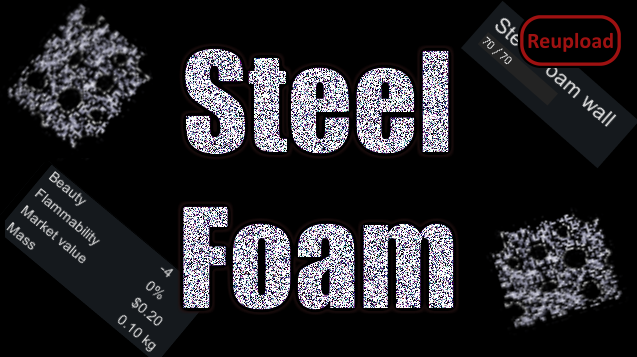
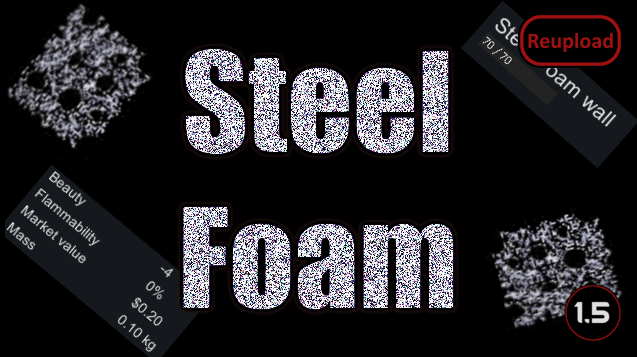
Mod updated for 1.5 and passed autotests

Changed region(s): [[0.865, 0.8011, 0.9843, 0.9552]]

diff --git a/README.md b/README.md
@@ -34,11 +34,13 @@ Mod Version: 0.0.1 Balance suggestions welcomed.
 
 -  See if the the error persists if you just have this mod and its requirements active.
 -  If not, try adding your other mods until it happens again.
--  Post your error-log using https://steamcommunity.com/workshop/filedetails/?id=818773962]HugsLib and command Ctrl+F12
+-  Post your error-log using https://steamcommunity.com/workshop/filedetails/?id=818773962]HugsLib or the standalone https://steamcommunity.com/sharedfiles/filedetails/?id=2873415404]Uploader and command Ctrl+F12
 -  For best support, please use the Discord-channel for error-reporting.
 -  Do not report errors by making a discussion-thread, I get no notification of that.
 -  If you have the solution for a problem, please post it to the GitHub repository.
+-  Use https://github.com/RimSort/RimSort/releases/latest]RimSort to sort your mods
 
 
 
+https://steamcommunity.com/sharedfiles/filedetails/changelog/2379192653]![Image](https://img.shields.io/github/v/release/emipa606/SteelFoam?label=latest%20version&style=plastic&color=9f1111&labelColor=black)
 
